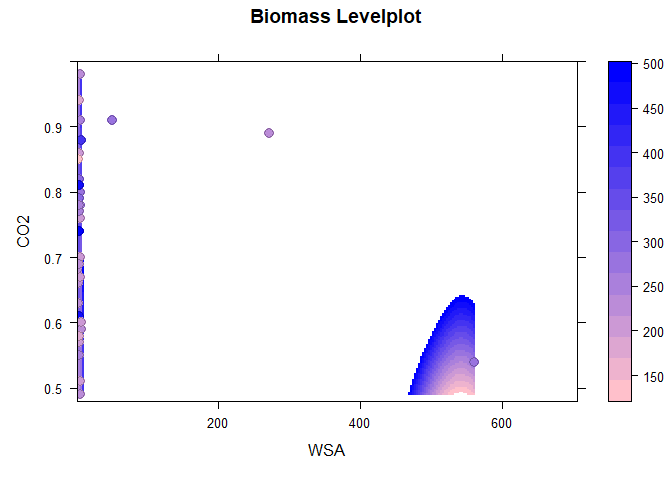
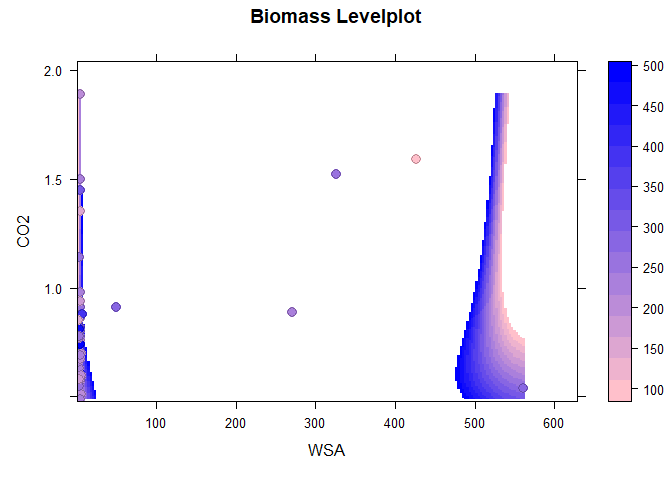
2.0 online!

diff --git a/Projects/elizavetashch/plot.md b/Projects/elizavetashch/plot.md
@@ -1,32 +1,66 @@
-    ## ── Attaching core tidyverse packages ──────────────────────── tidyverse 2.0.0 ──
-    ## ✔ dplyr     1.1.0     ✔ readr     2.1.4
-    ## ✔ forcats   1.0.0     ✔ stringr   1.5.0
-    ## ✔ ggplot2   3.4.1     ✔ tibble    3.1.8
-    ## ✔ lubridate 1.9.2     ✔ tidyr     1.3.0
-    ## ✔ purrr     1.0.1     
-    ## ── Conflicts ────────────────────────────────────────── tidyverse_conflicts() ──
-    ## ✖ dplyr::filter() masks stats::filter()
-    ## ✖ dplyr::lag()    masks stats::lag()
-    ## ℹ Use the ]8;;http://conflicted.r-lib.org/conflicted package]8;; to force all conflicts to become errors
+## clean data, add biomass
 
-    ## Warning: 程辑包'latticeExtra'是用R版本4.2.3 来建造的
+    dataRaw[dataRaw == ""] <- NA
+    data<- dataRaw%>%
+      drop_na()%>%
+      filter(shape=="Films",
+             str_detect(root,"^[0-9.]+$"))%>%
+      mutate(root = as.numeric(root),
+             CO2=gsub("(\\..*)\\.", "\\.", CO2) %>% as.numeric(gsub("\\.", "", CO2))%>% round(2),
+             WSA = gsub("(\\..*)\\.", "\\.", WSA) %>% as.numeric(gsub("\\.", "", .)))%>%
+      mutate(biomass=root+shoot)
 
-    ## 载入需要的程辑包：lattice
-    ## 
-    ## 载入程辑包：'latticeExtra'
-    ## 
-    ## The following object is masked from 'package:ggplot2':
-    ## 
-    ##     layer
+    print(data)
 
-    ## Warning: There was 1 warning in `mutate()`.
-    ## ℹ In argument: `CO2 = if_else(CO2 == "", NA_real_, as.numeric(CO2))`.
-    ## Caused by warning in `if_else()`:
-    ## ! 强制改变过程中产生了NA
+    ##    shape polymer concentration shoot   root  CO2     WSA biomass
+    ## 1  Films      PE           0.1   147 125.80 0.80   4.759  272.80
+    ## 2  Films      PE           0.1   140 108.80 0.59   4.838  248.80
+    ## 3  Films      PE           0.1   112 115.30 1.50   4.225  227.30
+    ## 4  Films      PE           0.1   115  87.80 0.70   5.255  202.80
+    ## 5  Films      PE           0.2   133  66.50 0.51   5.138  199.50
+    ## 6  Films      PE           0.2   129  90.70 0.49   4.751  219.70
+    ## 7  Films      PE           0.2    79 141.30 0.57   3.888  220.30
+    ## 8  Films      PE           0.2   101 129.00 0.59   5.705  230.00
+    ## 9  Films      PE           0.3   214 150.00 0.82   3.813  364.00
+    ## 10 Films      PE           0.3   149  96.20 0.91   4.405  245.20
+    ## 11 Films      PE           0.3   129  77.50 0.76   4.619  206.50
+    ## 12 Films      PE           0.3   182 104.60 0.78   4.299  286.60
+    ## 13 Films      PE           0.4   123  90.40 0.57   3.471  213.40
+    ## 14 Films      PE           0.4   138  91.70 0.68   1.047  229.70
+    ## 15 Films      PE           0.4   139 115.30 0.60   2.115  254.30
+    ## 16 Films      PE           0.4   159 103.40 0.55   2.905  262.40
+    ## 17 Films     PET           0.1   336 142.60 0.74   3.931  478.60
+    ## 18 Films     PET           0.1   224 137.30 0.58   3.235  361.30
+    ## 19 Films     PET           0.1   173 113.50 0.61   3.814  286.50
+    ## 20 Films     PET           0.1   378  83.90 0.61   3.853  461.90
+    ## 21 Films     PET           0.2   179  34.00 1.89   3.782  213.00
+    ## 22 Films     PET           0.2   149 108.30 1.14   3.006  257.30
+    ## 23 Films     PET           0.2   173 123.60 1.45   3.889  296.60
+    ## 24 Films     PET           0.2    93  55.30 1.35   4.045  148.30
+    ## 25 Films     PET           0.3   147 114.30 1.52 325.228  261.30
+    ## 26 Films     PET           0.3   143  91.70 0.86   2.119  234.70
+    ## 27 Films     PET           0.3   186 125.40 0.98   2.846  311.40
+    ## 28 Films     PET           0.3   158 136.60 0.82   3.419  294.60
+    ## 29 Films     PET           0.4   123 101.40 0.63   2.558  224.40
+    ## 30 Films     PET           0.4   173 116.30 0.79   2.955  289.30
+    ## 31 Films     PET           0.4   190  51.50 0.77   2.855  241.50
+    ## 32 Films     PET           0.4   138  94.90 0.66   1.765  232.90
+    ## 33 Films      PP           0.1   180  37.80 0.98   4.617  217.80
+    ## 34 Films      PP           0.1   172  61.60 0.89 271.137  233.60
+    ## 35 Films      PP           0.1   145  70.20 0.86   3.936  215.20
+    ## 36 Films      PP           0.1   394  61.10 0.81   3.649  455.10
+    ## 37 Films      PP           0.2   218  52.70 0.54 561.194  270.70
+    ## 38 Films      PP           0.2   306  81.03 0.88   6.608  387.03
+    ## 39 Films      PP           0.2   193  85.70 0.91  50.000  278.70
+    ## 40 Films      PP           0.2    49  61.00 1.59 426.087  110.00
+    ## 41 Films      PP           0.3   134  81.00 0.60   5.699  215.00
+    ## 42 Films      PP           0.3   164  49.90 0.67   4.715  213.90
+    ## 43 Films      PP           0.3   112  61.40 0.58   3.396  173.40
+    ## 44 Films      PP           0.3   187  51.00 0.69   4.018  238.00
+    ## 45 Films      PP           0.4   142 105.20 0.78   3.159  247.20
+    ## 46 Films      PP           0.4    95  77.30 0.94   3.844  172.30
+    ## 47 Films      PP           0.4    86  58.50 0.85   1.609  144.50
 
-    ## Warning: There was 1 warning in `mutate()`.
-    ## ℹ In argument: `root = as.numeric(root)`.
-    ## Caused by warning:
-    ## ! 强制改变过程中产生了NA
+## plot
 
 ![](plot_files/figure-markdown_strict/unnamed-chunk-2-1.png)
